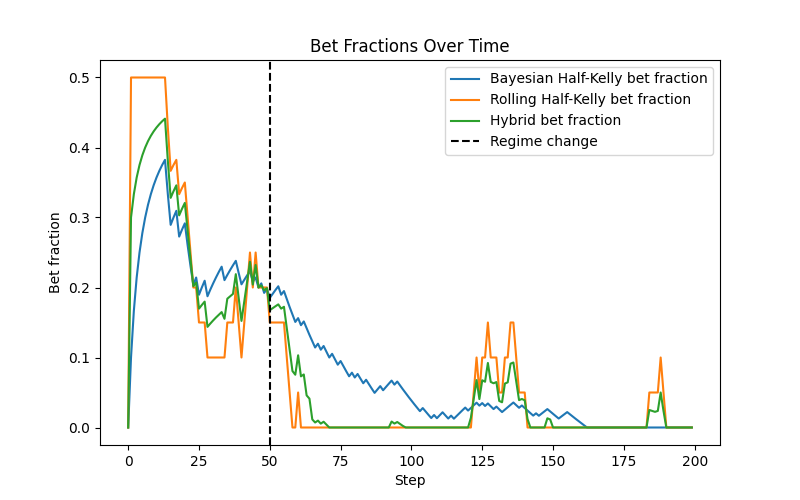
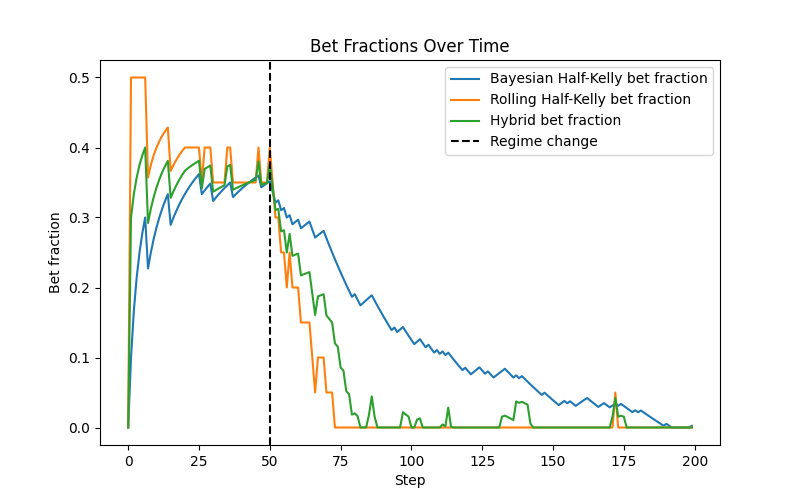
Changes

diff --git a/README.md b/README.md
@@ -190,7 +190,9 @@ This motivates the development of **hybrid models**, which combine both signals.
 
 ---
 
-## Hybrid Models 
+## Hybrid Models: Combining Stability and Responsiveness
+
+Neither the Bayesian estimator nor the rolling estimator is sufficient on its own in a non-stationary environment.
 
 I combine the Bayesian estimate and the Rolling estimate by using a weighting of 'w' for Rolling and '1-w' for the Bayesian estimate.
 
@@ -199,7 +201,16 @@ Hence, the combined estimate would be designed as below:
 ```python
 p_combined = w * recent_p + (1 - w) * p_hat
 ```
-for some w between 0 and 1, where recent_p, p_hat represents the Rolling estimate, Bayesian estimate respectively.
+for some w between 0 and 1, where w controls the trade-off between responsiveness and stability.
+'recent_p' and 'p_hat' represents the Rolling estimate, Bayesian estimate respectively.
+
+### Model Setup
+
+- True probability shifts from **0.8 → 0.45 at step 50**
+- Bayesian estimate: posterior mean of Beta distribution  
+- Rolling estimate: average of recent outcomes (window = 20)  
+- Hybrid estimate: weighted combination of both 
+- Position sizing: **Half-Kelly based on each estimate**
 
 Below are previous plots with the addition of the hybrid model, where we have initially chosen w=0.5
 
@@ -215,13 +226,50 @@ Below are previous plots with the addition of the hybrid model, where we have in
 
 ![Wealth paths under regime change](figures/wealth_paths_under_regime_change_3.png)
 
-### Key Insights
+### Key Observations
+
+- The hybrid model **captures early growth** from the rolling estimator  
+  - It increases position size faster than the Bayesian model in strong-edge environments  
+
+- At the same time, it retains **stability from the Bayesian estimator**  
+  - It avoids the extreme overreaction seen in pure rolling strategies  
+
+- The hybrid strategy produces:
+  - Higher wealth than Bayesian alone  
+  - Lower drawdowns than rolling alone  
+
+### Role of the Weight Parameter (w)
+
+The parameter w determines how much the model trusts recent data:
+
+- **Low w (closer to Bayesian):**
+  - More stable  
+  - Slower to adapt  
+
+- **High w (closer to rolling):**
+  - Faster adaptation  
+  - More sensitive to noise  
+
+This creates a **tunable balance between bias and variance**, allowing the model to adapt to different environments.
+
+### Interpretation
+
+The hybrid model reflects a key principle in trading:
+
+- No single signal is reliable on its own  
+- Combining signals can improve robustness  
+
+The hybrid estimator acts as a **risk-aware compromise**, allowing the strategy to:
+- respond to new information  
+- while avoiding overreaction to short-term noise  
 
 ---
 
 ## Regime Detection & Control 
 
 ### Key Insights
+
+
 
 ---
 
